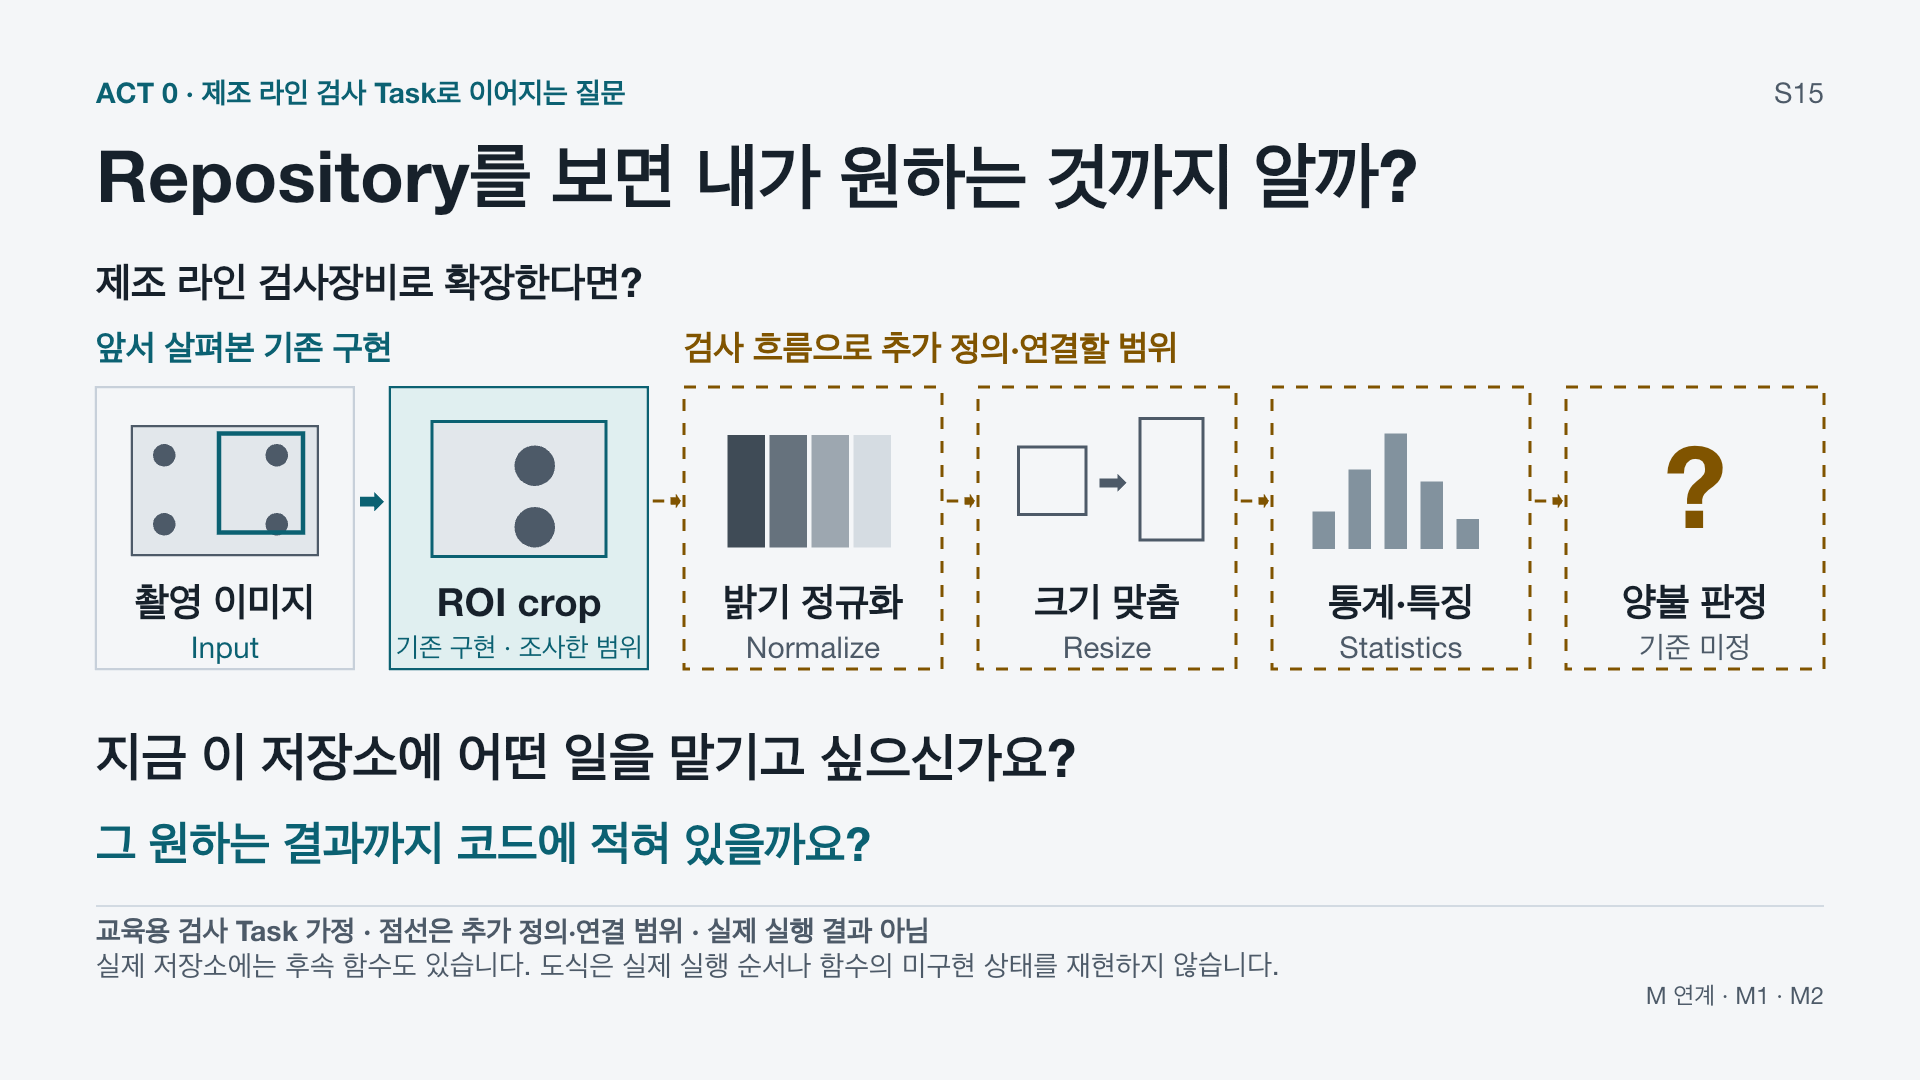
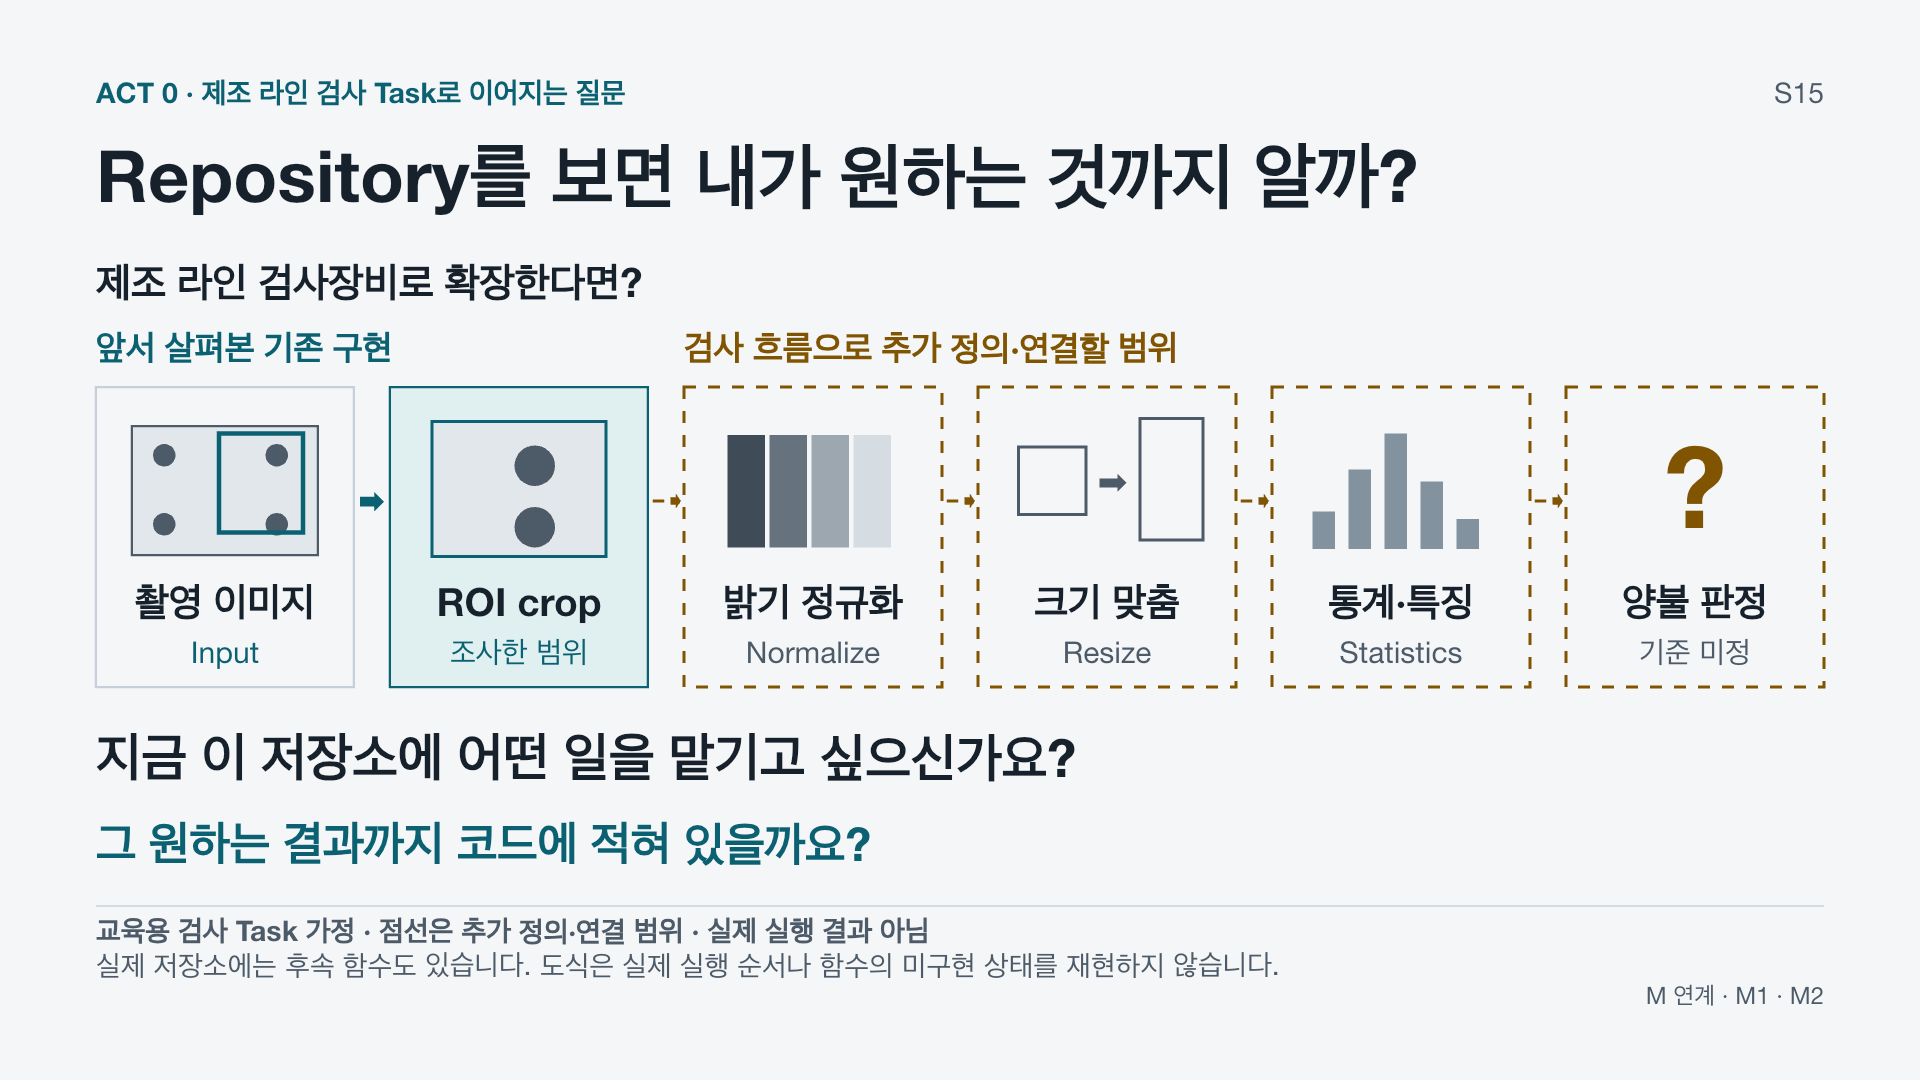
fix(slides): keep the ROI caption inside its frame
Shorten the crop scope caption and restore readable insets.
Keep the six pipeline frames aligned without changing the lesson.
Preserve other slides, Notes and the 117-slide, 412-minute schedule.

diff --git a/plan/DECISIONS.md b/plan/DECISIONS.md
@@ -10775,3 +10775,75 @@ Render the new slide and exact final decks, compare all retained slides
 with a reference-only ID migration, validate117Notes/412minutes, then
 commit/push normally under the standing user instruction. Keep company
 account, Windows, room and rehearsal unverified. Do not update Sites here.
+
+
+# DEC-0102 — Keep the S15 crop caption within its frame
+
+## Status
+
+ACCEPTED — explicit user approval of the reviewed layout repair.
+
+## Date
+
+2026-10-26
+
+## Context
+
+The user observes the crop caption extending beyond its rectangle in S15.
+The existing162px caption box has only5px horizontal and4px bottom inset.
+
+## Problem
+
+The long caption is crowded and uses13.5pt while peer captions use15pt.
+Renderer/font differences can expose the limited fit margin.
+
+## Decision
+
+Shorten only the crop caption to 조사한 범위. Retain the existing upper
+heading that already identifies the implementation. Match peer captions
+at15pt. Keep the six pipeline cells aligned: extend frame height by12px,
+use10px side insets and12px bottom inset, and separate captions from titles.
+Preserve all pipeline labels, pictures, connectors, questions and evidence.
+Update Full/ACT0 and previews, source, this decision and the map description.
+Keep117slides/412minutes and every slide allocation unchanged.
+
+## Rationale
+
+Remove duplicated wording and add actual space rather than reducing type.
+Keep the current implementation versus additional-definition distinction.
+
+## Alternatives
+
+Reduce the font further; this weakens presentation readability.
+Use two lines; this crowds the limited caption area.
+
+## Trade-offs
+
+The six matching frames extend12px lower. They retain21px before the next
+question box and preserve the existing pipeline order and upper alignment.
+
+## Related Invariants
+
+INV-NARRATIVE-001, INV-VERIFY-001.
+
+## Affected Artifacts
+
+Only the S15 layout in Full/ACT0, corresponding previews, current source and
+map description, plus local validation and file-identity records.
+Speaker Notes, evidence, other slides, Demo Repository and Sites stay intact.
+
+## Evidence
+
+User annotation and explicit approval; inspected PPT geometry and local PNG.
+The diagnosis is limited to tight geometry; no target PowerPoint/font test
+has established the exact platform-specific overflow cause.
+
+## Training Relevance
+
+Preserve the scope labels without distracting from the Task-intent question.
+
+## Follow-up
+
+Render and inspect the final S15 in Full and ACT0, check that other slide
+and Notes bytes remain identical, and commit/push under the standing policy.
+Keep Windows PowerPoint, room projection and rehearsal unverified.

diff --git a/production/evaluation/S15_CROP_CAPTION_LAYOUT_REVISION.md b/production/evaluation/S15_CROP_CAPTION_LAYOUT_REVISION.md
@@ -1,0 +1,37 @@
+# S15 crop 설명 배치 수정
+
+Decision: DEC-0102. Date:2026-10-26. Baseline:`7d90672`.
+Status: LOCAL PASS; Windows/room/rehearsal UNVERIFIED.
+
+## 수정
+
+“기존 구현 · 조사한 범위”를 **“조사한 범위”**로 줄였다. 위의 “앞서 살펴본 기존 구현”
+안내는 그대로이므로 의미를 보존한다. crop 보조 설명을13.5pt에서 다른 단계와 같은15pt로 맞췄다.
+여섯 단계의 사각형 높이를188px에서200px로 늘리고 보조 설명을 같은 줄에 정렬했다.
+텍스트 상자 기준 좌우10px/하단12px 여백을 확보했다. 아래 질문 상자까지21px를 남겼다.
+
+상단 제목·그림·ROI 도식·연결선·다른 단계 문구·하단 질문·근거와 한계 표기는 유지했다.
+실선의 기존 조사 범위와 점선의 추가 정의/연결 범위 구분,117장·412분 및 장별 시간/Mode도 같다.
+Notes 내용이 여전히 같은 의미를 설명하므로 Markdown/내장 Notes를 변경하지 않았다.
+
+## 검증
+
+- 최종 Full/ACT0의 S15를 각각1920×1080으로 재렌더링했다. 두 PNG는 픽셀이 같다.
+- 원해상도로 짧아진 문구와 프레임 안 여백, 여섯 단계 정렬, 아래 질문 간격을 확인했다.
+  로컬 렌더에서 새 잘림·겹침을 발견하지 않았다.
+- 두 PPTX에서 바뀐 패키지 파트는 각각 `ppt/slides/slide15.xml` 하나뿐이다.
+  다른 모든 Slide·Notes·이미지·차트·워크북·관계 파트는 이전과 바이트가 같다.
+- S15의 텍스트 변경도 해당 보조 설명 하나뿐이다.12개 도형 변경은6개 프레임 높이와
+ 6개 보조 설명의 정렬/폭/높이, crop 보조 설명의 글자 크기로 한정된다.
+- First-party package/layout 검사와 최종 파일 재입력을 확인했다. Full의 기존 표 추정 경고는
+  동일하다. 지정 글꼴 Malgun Gothic/Consolas와 로컬 대체 글꼴을 구분한다.
+- S15 이외의 PNG는 다시 만들거나 변경하지 않고 Full/ACT0 montage만 새 S15로 갱신했다.
+- 현재 전달 문서와 정적 fallback 목록의 통합 PPT/연락판 파일 식별자를 정렬했다.
+- Windows PowerPoint·실제 발표 PC 글꼴·교육장 투사·리허설은 미검증이다.
+  특정 표시 환경에서 넘친 원인을 글꼴 문제로 확정하지 않는다.
+
+새 Trial·제품 실행·성과 주장·웹/Sites·Demo Repository·발표 묶음 변경은 없다.
+
+[수정 화면](../preview/full/S15.png), [ACT0 전체](../preview/act0/montage.png),
+[통합 PPT](../AI_Dev_Training_Full.pptx), [ACT0 PPT](../ACT_0.pptx),
+[검사 기록](S15_CROP_CAPTION_LAYOUT_VALIDATION.json).

diff --git a/production/evaluation/FINAL_HANDOFF.md b/production/evaluation/FINAL_HANDOFF.md
@@ -1,5 +1,7 @@
 # 최종 전달 안내 — AI 개발자 교육
 
+배치 수정 DEC-0102: S15의 crop 설명을 “조사한 범위”로 줄이고15pt·사각형 내부 여백을 확보했다.117장·412분·기존 흐름/근거/Notes는 유지한다. [수정 결과](S15_CROP_CAPTION_LAYOUT_REVISION.md).
+
 현재 DEC-0101 /117장·412분. 기존 S03 뒤에 Copilot IDE 활용 팁 S04만 Lecture2분 추가했다.
 기존116장의 내용·디자인·배정·근거는 유지하고 이전 S04–S116의 번호/현재 참조만 +1이다.
 이전 S04(현재 S05)와 이전 S12(현재 S13)도 변경하지 않았다.
@@ -15,15 +17,15 @@ Windows·교육장·회사 계정·실측 리허설은 UNVERIFIED다. 웹은 이
 
 | 파일 | SHA-256 |
 |---|---|
[12 lines of base64/hex data omitted]
 
 ## 이전 전달 안내 — 당시 판본 보존
 

diff --git a/demos/runbooks/FALLBACK_MANIFEST.md b/demos/runbooks/FALLBACK_MANIFEST.md
@@ -7,9 +7,9 @@ Company-account use, Windows, room and timed rehearsal UNVERIFIED. No Live appro
 
 ## Current source identities
 
[5 lines of base64/hex data omitted]
 
 [Current addition validation](../../production/evaluation/COPILOT_IDE_TIP.md).
 
